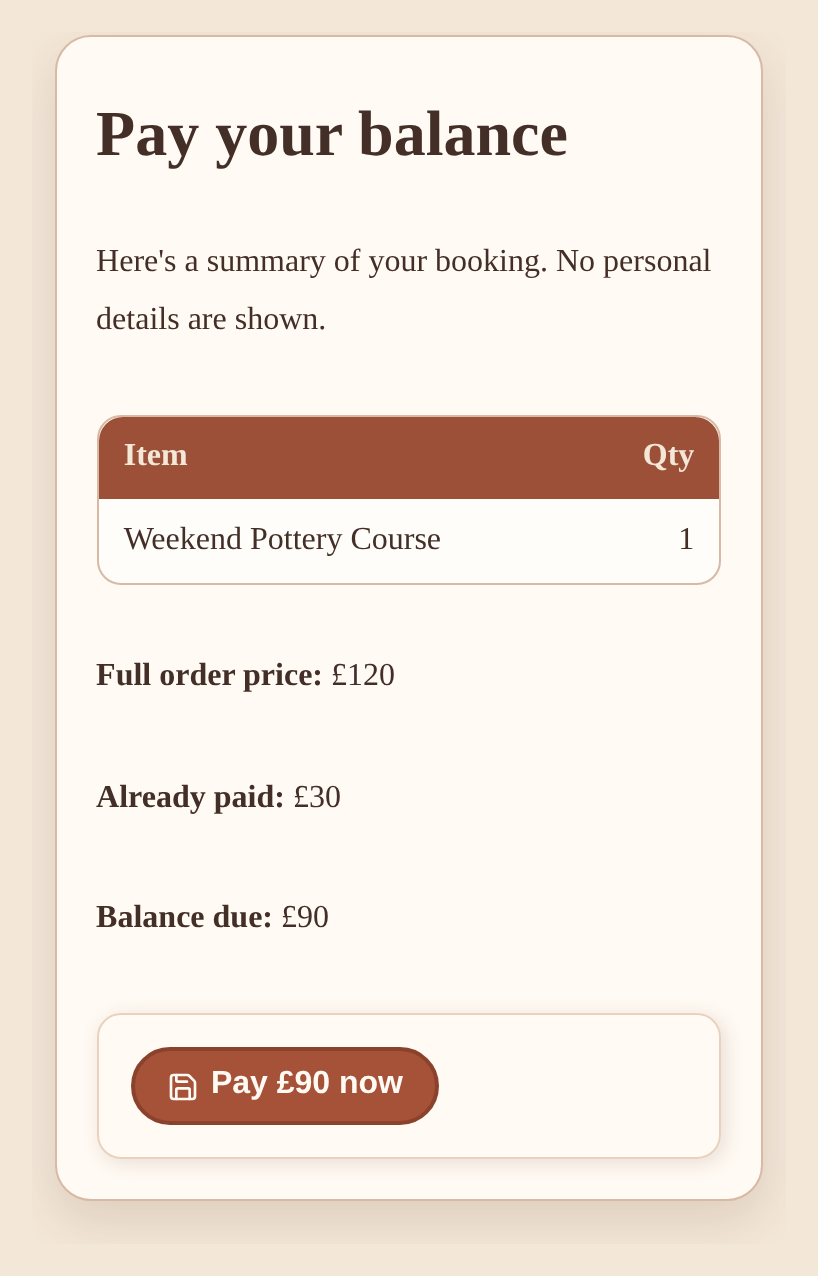
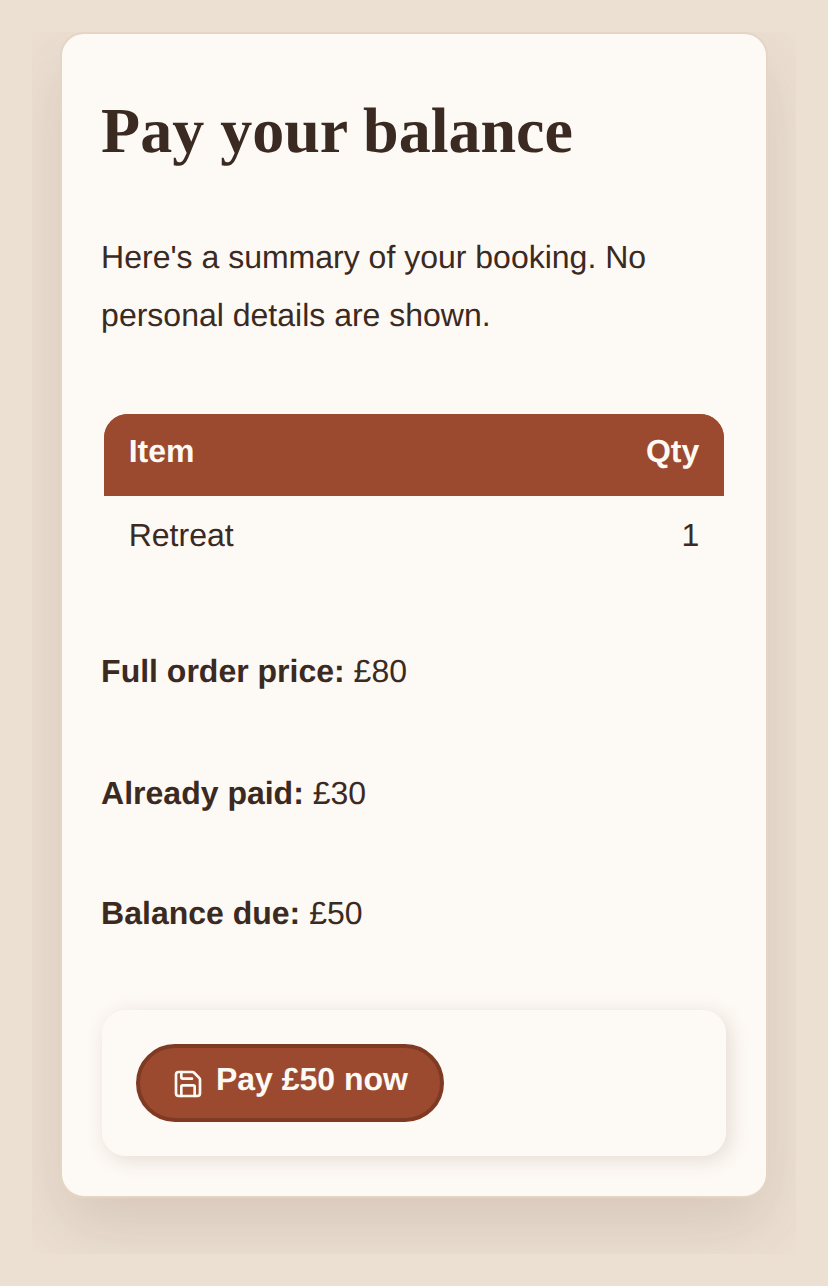
Take the balance page screenshot from its Cucumber case (#121)

diff --git a/pages/features/deposits-and-balance-payments.md b/pages/features/deposits-and-balance-payments.md
@@ -3,6 +3,7 @@ title: Deposits & Balance Payments - Chobble Tickets
 meta_title: Deposits, Reservations & Balance Payments - Chobble Tickets
 meta_description: Take a deposit at booking time and collect the balance later through a secure payment link. Statuses, ledger tracking, and offline payments included.
 permalink: /features/deposits-and-balance-payments/
+ticket_evidence_capture: balance-payment-link
 eleventyNavigation:
   key: Deposits & Balances
   parent: Selling Tickets
@@ -52,16 +53,16 @@ blocks:
       ## The customer payment link
 
       Each reserved booking has a payment link at a tokenised URL. The
-      page shows what was booked, what has been paid, and what is left,
+      page names what was booked, what has been paid, and what is left,
       then takes the customer to your payment provider to pay the
       outstanding balance.
-      The link is signed, so it cannot be guessed, and it contains no
-      personal data. Once the balance is settled, the page reports that
-      there is nothing left to pay, and the booking moves to your
-      paid status.
+      The link is signed, so it cannot be guessed, and it names nobody:
+      not the person who booked, nor their email address. Once the
+      balance is settled, the page reports that there is nothing left to
+      pay, and the booking moves to your paid status.
     figure_src: /images/screenshots/deposits-and-balance-payments.png
-    figure_alt: Weekend Pottery Course balance page showing a £120 order, £30 paid and £90 left to pay
-    figure_caption: Customers can see what they paid and settle the exact balance online.
+    figure_alt: Balance payment page for one Retreat place, showing an £80 order, £30 already paid and £50 still due
+    figure_caption: The page a customer opens from their payment link, naming what they booked, what they have paid and what is left. <small><a href="https://github.com/chobbledotcom/tickets/blob/main/specs/payments/paying-a-deposit.feature">(src)</a></small>
   - type: markdown
     content: |
       ## Balance tracking and offline payments

diff --git a/pages/gallery.md b/pages/gallery.md
@@ -43,7 +43,7 @@ blocks:
       - image: /images/screenshots/industry-catering-booking__facebook.png
         caption: A catering checkout with guest requirements and a paid crockery extra.
       - image: /images/screenshots/deposits-and-balance-payments__facebook.png
-        caption: A balance page — £120 order, £30 paid, £90 left to pay.
+        caption: A balance page for a Retreat place with £80 ordered, £30 paid and £50 left.
       - image: /images/screenshots/workshop-terms-checkout__facebook.png
         caption: Workshop terms shown at checkout, so the buyer agrees before paying.
       - image: /images/screenshots/moonlight-cinema-dark-checkout__facebook.png

diff --git a/IMAGE-SCENARIOS.md b/IMAGE-SCENARIOS.md
@@ -240,6 +240,7 @@ These pages are rendered but excluded from the sitemap and main editorial total.
 
 ### Completed Cucumber evidence captures
 
+- [x] `balance-payment-link`
 - [x] `payment-provider-choice`
 - [x] `qr-code-check-in`
 - [x] `servicing-studio-floor-hold`
